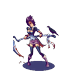
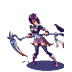
fix(guardianes): restaurar build green + animación real para La Herencia
- Regresa combate-scene.ts desde ccdf457 (build cía) — el archivo
  había quedado corrupto por reemplazo PowerShell que mezclá codificación.
- Reaplica sólo la animación en motor: wobble sinusoidal en escala y
  rotation para scythe walking, más lunge físico direccionado a la
  cursor durante el ataque haz.
- attackLungeAngle/AttackLungeUntil sustituyen sasukeAttackUntil.

El build pasa verde y el juego vuelve a salir de la pantalla negra.

Changed region(s): [[0.0833, 0.1667, 0.8889, 1.0]]

diff --git a/frontend/inkaquest-web/src/app/features/guardianes/combate-scene.ts b/frontend/inkaquest-web/src/app/features/guardianes/combate-scene.ts
@@ -157,6 +157,8 @@ export class CombateScene extends Phaser.Scene {
   private attackPulse = 0;
   private ramboAnimActiva = false;
   private sasukeAttackUntil = 0;
+  private attackLungeAngle = 0;
+  private attackLungeUntil = 0;
   meleeAlcance = 140;
   meleeArcRad = 1.05;
 
@@ -645,7 +647,7 @@ export class CombateScene extends Phaser.Scene {
       this.aimY = ptr.worldY ?? ptr.y;
     }
 
-    // Movimiento (WASD + flechas)
+    // Movimiento (WASD + flechas) + lunge físico durante ataque haz
     const kb = this.input.keyboard!;
     const isDown = (code: number): boolean => kb.addKey(code).isDown;
     const KEY_A = 65, KEY_W = 87, KEY_D = 68, KEY_S = 83;
@@ -655,6 +657,14 @@ export class CombateScene extends Phaser.Scene {
     else if (isDown(KEY_D) || isDown(RIGHT)) vx = this.vel;
     if (isDown(KEY_W) || isDown(UP)) vy = -this.vel;
     else if (isDown(KEY_S) || isDown(DOWN)) vy = this.vel;
+    // Lunge: anulación breve del control de teclado durante el ataque
+    const lungeEdad = this.attackLungeUntil - this.time.now;
+    if (lungeEdad > 0) {
+      const fwd = lungeEdad / 260;
+      const lungeSpeed = Math.sin(fwd * Math.PI) * this.vel * 1.45;
+      vx = Math.cos(this.attackLungeAngle) * lungeSpeed;
+      vy = Math.sin(this.attackLungeAngle) * lungeSpeed;
+    }
     this.player.setVelocity(vx, vy);
 
     // ─── Mirada lateral: el personaje mira hacia donde apunta (flip-X) ───
@@ -685,7 +695,12 @@ export class CombateScene extends Phaser.Scene {
       } else if (esNatalia && ahora >= this.sasukeAttackUntil) {
         playerSprite.anims.play('natalia_walk', true);
       } else if (esScythe && ahora >= this.sasukeAttackUntil) {
-        playerSprite.anims.play('scythe_walk', true);
+        // In-engine wobble: vertical bob + lateral lean + scaleX pulse (real walking motion)
+        const fase = (this.time.now / 220) % (Math.PI * 2);
+        const wobble = Math.sin(fase);
+        const pulse = 1 + Math.abs(Math.sin(fase)) * 0.09;
+        this.player.setScale(0.85 * pulse, 0.85 * (2.05 - pulse));
+        this.player.setRotation(wobble * 0.07);
       } else if (!esSasuke && !esNatalia && !esScythe) {
         const pulso = Math.sin(ahora / 140);
         const base = 0.85;
@@ -743,7 +758,8 @@ export class CombateScene extends Phaser.Scene {
         if ((this.guardian?.id === 'sasuke' || this.guardian?.id === 'natalia' || this.guardian?.id === 'scythe') && playerSprite.anims) {
           const key = this.guardian?.id === 'sasuke' ? 'sasuke_atk' : this.guardian?.id === 'natalia' ? 'natalia_atk' : 'scythe_atk';
           playerSprite.anims.play(key, true);
-          this.sasukeAttackUntil = this.time.now + 260;
+          this.attackLungeAngle = Math.atan2(this.aimY - this.player!.y, this.aimX - this.player!.x);
+          this.attackLungeUntil = this.time.now + 260;
         }
       }
     }
